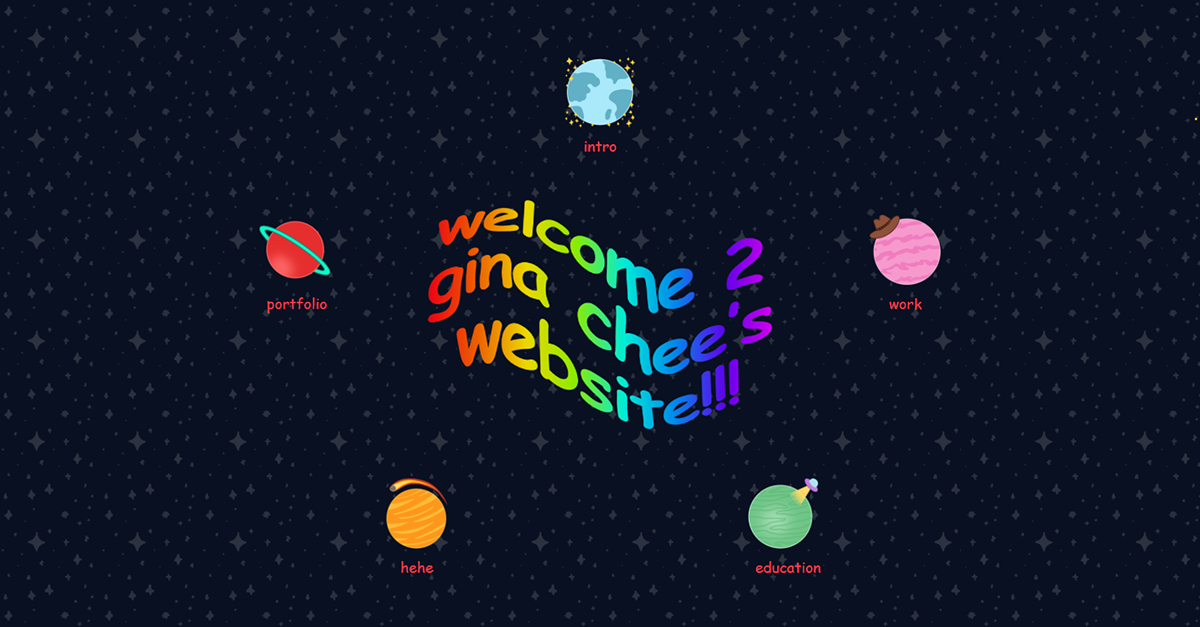
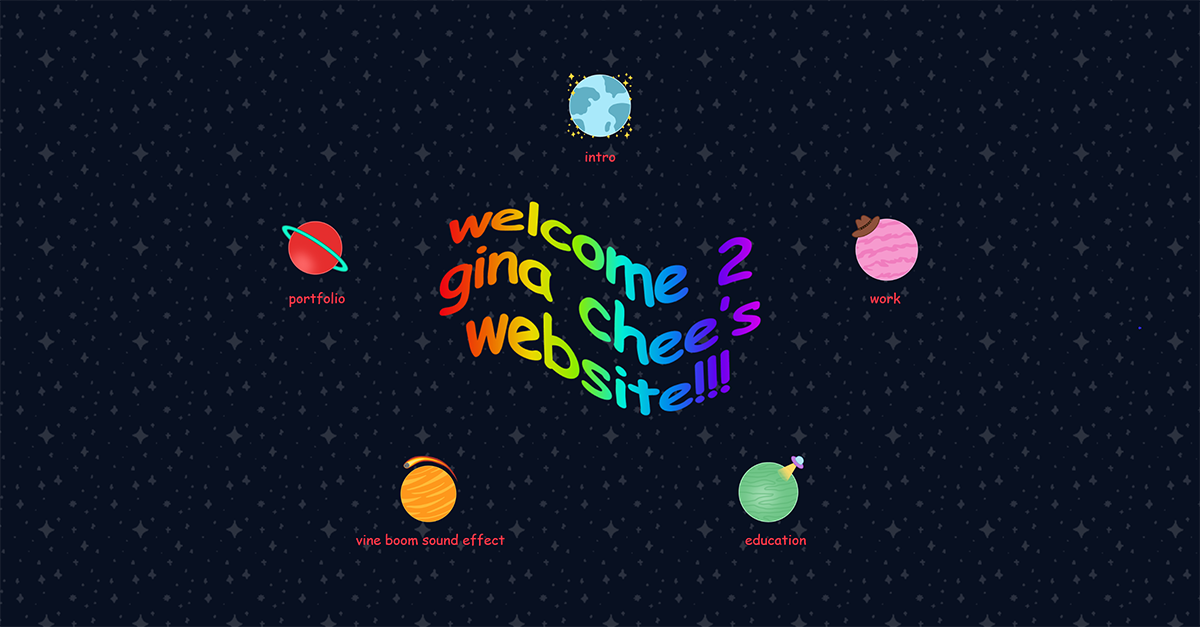
new planet

diff --git a/pages/css/spacejam.css b/pages/css/spacejam.css
@@ -1,2 +1,2 @@
-.container{max-width:800px;margin:0 auto;width:90%;min-height:99vh;overflow:auto;-webkit-overflow-scrolling:auto}@media only screen and (min-width: 601px){.container{width:85%}}@media only screen and (min-width: 993px){.container{width:70%}}.col .row{margin-left:-.75rem;margin-right:-.75rem}.row{margin:24px 0}.section{padding-top:1rem;padding-bottom:1rem}.section.no-pad{padding:0}.section.no-pad-bot{padding-bottom:0}.section.no-pad-top{padding-top:0}.row{margin-left:auto;margin-right:auto}.row:after{content:"";display:table;clear:both}.row .col{float:left;-webkit-box-sizing:border-box;box-sizing:border-box;padding:0 .75rem;min-height:1px}.row .col[class*=pull-],.row .col[class*=push-]{position:relative}.row .col.s1{width:8.3333333333%;margin-left:auto;left:auto;right:auto}.row .col.s2{width:16.6666666667%;margin-left:auto;left:auto;right:auto}.row .col.s3{width:25%;margin-left:auto;left:auto;right:auto}.row .col.s4{width:33.3333333333%;margin-left:auto;left:auto;right:auto}.row .col.s5{width:41.6666666667%;margin-left:auto;left:auto;right:auto}.row .col.s6{width:50%;margin-left:auto;left:auto;right:auto}.row .col.s7{width:58.3333333333%;margin-left:auto;left:auto;right:auto}.row .col.s8{width:66.6666666667%;margin-left:auto;left:auto;right:auto}.row .col.s9{width:75%;margin-left:auto;left:auto;right:auto}.row .col.s10{width:83.3333333333%;margin-left:auto;left:auto;right:auto}.row .col.s11{width:91.6666666667%;margin-left:auto;left:auto;right:auto}.row .col.s12{width:100%;margin-left:auto;left:auto;right:auto}.row .col.offset-s1{margin-left:8.3333333333%}.row .col.pull-s1{right:8.3333333333%}.row .col.push-s1{left:8.3333333333%}.row .col.offset-s2{margin-left:16.6666666667%}.row .col.pull-s2{right:16.6666666667%}.row .col.push-s2{left:16.6666666667%}.row .col.offset-s3{margin-left:25%}.row .col.pull-s3{right:25%}.row .col.push-s3{left:25%}.row .col.offset-s4{margin-left:33.3333333333%}.row .col.pull-s4{right:33.3333333333%}.row .col.push-s4{left:33.3333333333%}.row .col.offset-s5{margin-left:41.6666666667%}.row .col.pull-s5{right:41.6666666667%}.row .col.push-s5{left:41.6666666667%}.row .col.offset-s6{margin-left:50%}.row .col.pull-s6{right:50%}.row .col.push-s6{left:50%}.row .col.offset-s7{margin-left:58.3333333333%}.row .col.pull-s7{right:58.3333333333%}.row .col.push-s7{left:58.3333333333%}.row .col.offset-s8{margin-left:66.6666666667%}.row .col.pull-s8{right:66.6666666667%}.row .col.push-s8{left:66.6666666667%}.row .col.offset-s9{margin-left:75%}.row .col.pull-s9{right:75%}.row .col.push-s9{left:75%}.row .col.offset-s10{margin-left:83.3333333333%}.row .col.pull-s10{right:83.3333333333%}.row .col.push-s10{left:83.3333333333%}.row .col.offset-s11{margin-left:91.6666666667%}.row .col.pull-s11{right:91.6666666667%}.row .col.push-s11{left:91.6666666667%}.row .col.offset-s12{margin-left:100%}.row .col.pull-s12{right:100%}.row .col.push-s12{left:100%}@media only screen and (min-width: 601px){.row .col.m1{width:8.3333333333%;margin-left:auto;left:auto;right:auto}.row .col.m2{width:16.6666666667%;margin-left:auto;left:auto;right:auto}.row .col.m3{width:25%;margin-left:auto;left:auto;right:auto}.row .col.m4{width:33.3333333333%;margin-left:auto;left:auto;right:auto}.row .col.m5{width:41.6666666667%;margin-left:auto;left:auto;right:auto}.row .col.m6{width:50%;margin-left:auto;left:auto;right:auto}.row .col.m7{width:58.3333333333%;margin-left:auto;left:auto;right:auto}.row .col.m8{width:66.6666666667%;margin-left:auto;left:auto;right:auto}.row .col.m9{width:75%;margin-left:auto;left:auto;right:auto}.row .col.m10{width:83.3333333333%;margin-left:auto;left:auto;right:auto}.row .col.m11{width:91.6666666667%;margin-left:auto;left:auto;right:auto}.row .col.m12{width:100%;margin-left:auto;left:auto;right:auto}.row .col.offset-m1{margin-left:8.3333333333%}.row .col.pull-m1{right:8.3333333333%}.row .col.push-m1{left:8.3333333333%}.row .col.offset-m2{margin-left:16.6666666667%}.row .col.pull-m2{right:16.6666666667%}.row .col.push-m2{left:16.6666666667%}.row .col.offset-m3{margin-left:25%}.row .col.pull-m3{right:25%}.row .col.push-m3{left:25%}.row .col.offset-m4{margin-left:33.3333333333%}.row .col.pull-m4{right:33.3333333333%}.row .col.push-m4{left:33.3333333333%}.row .col.offset-m5{margin-left:41.6666666667%}.row .col.pull-m5{right:41.6666666667%}.row .col.push-m5{left:41.6666666667%}.row .col.offset-m6{margin-left:50%}.row .col.pull-m6{right:50%}.row .col.push-m6{left:50%}.row .col.offset-m7{margin-left:58.3333333333%}.row .col.pull-m7{right:58.3333333333%}.row .col.push-m7{left:58.3333333333%}.row .col.offset-m8{margin-left:66.6666666667%}.row .col.pull-m8{right:66.6666666667%}.row .col.push-m8{left:66.6666666667%}.row .col.offset-m9{margin-left:75%}.row .col.pull-m9{right:75%}.row .col.push-m9{left:75%}.row .col.offset-m10{margin-left:83.3333333333%}.row .col.pull-m10{right:83.3333333333%}.row .col.push-m10{left:83.3333333333%}.row .col.offset-m11{margin-left:91.6666666667%}.row .col.pull-m11{right:91.6666666667%}.row .col.push-m11{left:91.6666666667%}.row .col.offset-m12{margin-left:100%}.row .col.pull-m12{right:100%}.row .col.push-m12{left:100%}}@media only screen and (min-width: 993px){.row .col.l1{width:8.3333333333%;margin-left:auto;left:auto;right:auto}.row .col.l2{width:16.6666666667%;margin-left:auto;left:auto;right:auto}.row .col.l3{width:25%;margin-left:auto;left:auto;right:auto}.row .col.l4{width:33.3333333333%;margin-left:auto;left:auto;right:auto}.row .col.l5{width:41.6666666667%;margin-left:auto;left:auto;right:auto}.row .col.l6{width:50%;margin-left:auto;left:auto;right:auto}.row .col.l7{width:58.3333333333%;margin-left:auto;left:auto;right:auto}.row .col.l8{width:66.6666666667%;margin-left:auto;left:auto;right:auto}.row .col.l9{width:75%;margin-left:auto;left:auto;right:auto}.row .col.l10{width:83.3333333333%;margin-left:auto;left:auto;right:auto}.row .col.l11{width:91.6666666667%;margin-left:auto;left:auto;right:auto}.row .col.l12{width:100%;margin-left:auto;left:auto;right:auto}.row .col.offset-l1{margin-left:8.3333333333%}.row .col.pull-l1{right:8.3333333333%}.row .col.push-l1{left:8.3333333333%}.row .col.offset-l2{margin-left:16.6666666667%}.row .col.pull-l2{right:16.6666666667%}.row .col.push-l2{left:16.6666666667%}.row .col.offset-l3{margin-left:25%}.row .col.pull-l3{right:25%}.row .col.push-l3{left:25%}.row .col.offset-l4{margin-left:33.3333333333%}.row .col.pull-l4{right:33.3333333333%}.row .col.push-l4{left:33.3333333333%}.row .col.offset-l5{margin-left:41.6666666667%}.row .col.pull-l5{right:41.6666666667%}.row .col.push-l5{left:41.6666666667%}.row .col.offset-l6{margin-left:50%}.row .col.pull-l6{right:50%}.row .col.push-l6{left:50%}.row .col.offset-l7{margin-left:58.3333333333%}.row .col.pull-l7{right:58.3333333333%}.row .col.push-l7{left:58.3333333333%}.row .col.offset-l8{margin-left:66.6666666667%}.row .col.pull-l8{right:66.6666666667%}.row .col.push-l8{left:66.6666666667%}.row .col.offset-l9{margin-left:75%}.row .col.pull-l9{right:75%}.row .col.push-l9{left:75%}.row .col.offset-l10{margin-left:83.3333333333%}.row .col.pull-l10{right:83.3333333333%}.row .col.push-l10{left:83.3333333333%}.row .col.offset-l11{margin-left:91.6666666667%}.row .col.pull-l11{right:91.6666666667%}.row .col.push-l11{left:91.6666666667%}.row .col.offset-l12{margin-left:100%}.row .col.pull-l12{right:100%}.row .col.push-l12{left:100%}}@media only screen and (min-width: 1201px){.row .col.xl1{width:8.3333333333%;margin-left:auto;left:auto;right:auto}.row .col.xl2{width:16.6666666667%;margin-left:auto;left:auto;right:auto}.row .col.xl3{width:25%;margin-left:auto;left:auto;right:auto}.row .col.xl4{width:33.3333333333%;margin-left:auto;left:auto;right:auto}.row .col.xl5{width:41.6666666667%;margin-left:auto;left:auto;right:auto}.row .col.xl6{width:50%;margin-left:auto;left:auto;right:auto}.row .col.xl7{width:58.3333333333%;margin-left:auto;left:auto;right:auto}.row .col.xl8{width:66.6666666667%;margin-left:auto;left:auto;right:auto}.row .col.xl9{width:75%;margin-left:auto;left:auto;right:auto}.row .col.xl10{width:83.3333333333%;margin-left:auto;left:auto;right:auto}.row .col.xl11{width:91.6666666667%;margin-left:auto;left:auto;right:auto}.row .col.xl12{width:100%;margin-left:auto;left:auto;right:auto}.row .col.offset-xl1{margin-left:8.3333333333%}.row .col.pull-xl1{right:8.3333333333%}.row .col.push-xl1{left:8.3333333333%}.row .col.offset-xl2{margin-left:16.6666666667%}.row .col.pull-xl2{right:16.6666666667%}.row .col.push-xl2{left:16.6666666667%}.row .col.offset-xl3{margin-left:25%}.row .col.pull-xl3{right:25%}.row .col.push-xl3{left:25%}.row .col.offset-xl4{margin-left:33.3333333333%}.row .col.pull-xl4{right:33.3333333333%}.row .col.push-xl4{left:33.3333333333%}.row .col.offset-xl5{margin-left:41.6666666667%}.row .col.pull-xl5{right:41.6666666667%}.row .col.push-xl5{left:41.6666666667%}.row .col.offset-xl6{margin-left:50%}.row .col.pull-xl6{right:50%}.row .col.push-xl6{left:50%}.row .col.offset-xl7{margin-left:58.3333333333%}.row .col.pull-xl7{right:58.3333333333%}.row .col.push-xl7{left:58.3333333333%}.row .col.offset-xl8{margin-left:66.6666666667%}.row .col.pull-xl8{right:66.6666666667%}.row .col.push-xl8{left:66.6666666667%}.row .col.offset-xl9{margin-left:75%}.row .col.pull-xl9{right:75%}.row .col.push-xl9{left:75%}.row .col.offset-xl10{margin-left:83.3333333333%}.row .col.pull-xl10{right:83.3333333333%}.row .col.push-xl10{left:83.3333333333%}.row .col.offset-xl11{margin-left:91.6666666667%}.row .col.pull-xl11{right:91.6666666667%}.row .col.push-xl11{left:91.6666666667%}.row .col.offset-xl12{margin-left:100%}.row .col.pull-xl12{right:100%}.row .col.push-xl12{left:100%}}@font-face{font-family:'Comic Sans MS';src:url("../../space-jam/comic-sans-ms/COMIC.TTF")}@font-face{font-family:'Comic Sans MS';src:url("../../space-jam/comic-sans-ms/design.graffiti.comicsansmsgras.ttf");font-weight:bold}@font-face{font-family:'Comic Sans MS';src:url("../../space-jam/comic-sans-ms/comici.ttf");font-style:italic}*{cursor:url(https://cur.cursors-4u.net/food/foo-7/foo638.cur),auto !important;height:auto;-khtml-user-select:none;-o-user-select:none;-moz-user-select:none;-webkit-user-select:none;user-select:none}body{background:url("../../space-jam/media/stars-bg.png");font-family:'Comic Sans MS', 'Comic Sans', sans-serif;font-size:18px;color:white;line-height:1.6;margin:0}h1{font-size:32px;font-weight:bold}h2{font-size:24px;font-weight:bold}a{color:#FF3B4A;text-decoration:none}a:hover{text-decoration:underline}img{width:100%;height:auto}.planet{padding:16px;transition:transform .2s}.planet:hover{-ms-transform:scale(1.2);-webkit-transform:scale(1.2);transform:scale(1.2)}.planet h1,.planet h2,.planet h3,.planet h4,.planet h5{font-size:16px;font-weight:normal;text-align:center;margin:0 8px}.modal-overlay{bottom:0;left:0;opacity:0;position:fixed;right:0;top:0;display:none}.modal-overlay:target{display:block;opacity:1}.modal-overlay .modal{background:url("../../space-jam/media/stars-bg.png");height:100%;position:relative;margin:0 auto;padding:1.2em;overflow-y:auto;-webkit-overflow-scrolling:auto}.modal-overlay .close{color:#FF3B4A;font-size:32px;padding:12px 24px;position:absolute;right:0;text-align:center;text-decoration:none;top:0;z-index:1}.iframe-container{overflow:hidden;padding-top:56.25%;position:relative}.iframe-container iframe{position:absolute;top:0;left:0;border:0;width:100%;height:100%}.footer{height:100%;margin:16px 0;text-align:center;color:white;font-size:14px}@media only screen and (max-width: 992px){.planet h1,h2,h3,h4,h5{font-size:18px}}@media only screen and (min-width: 601px){#mobile-jam{display:none}}@media only screen and (max-width: 600px){.planet{padding:24px}#desktop-jam{display:none}h1{text-align:center}}
+.container{max-width:800px;margin:0 auto;width:90%;min-height:99vh;overflow:auto;-webkit-overflow-scrolling:auto}@media only screen and (min-width: 601px){.container{width:85%}}@media only screen and (min-width: 993px){.container{width:70%}}.col .row{margin-left:-.75rem;margin-right:-.75rem}.row{margin:24px 0}.section{padding-top:1rem;padding-bottom:1rem}.section.no-pad{padding:0}.section.no-pad-bot{padding-bottom:0}.section.no-pad-top{padding-top:0}.row{margin-left:auto;margin-right:auto}.row:after{content:"";display:table;clear:both}.row .col{float:left;-webkit-box-sizing:border-box;box-sizing:border-box;padding:0 .75rem;min-height:1px}.row .col[class*=pull-],.row .col[class*=push-]{position:relative}.row .col.s1{width:8.3333333333%;margin-left:auto;left:auto;right:auto}.row .col.s2{width:16.6666666667%;margin-left:auto;left:auto;right:auto}.row .col.s3{width:25%;margin-left:auto;left:auto;right:auto}.row .col.s4{width:33.3333333333%;margin-left:auto;left:auto;right:auto}.row .col.s5{width:41.6666666667%;margin-left:auto;left:auto;right:auto}.row .col.s6{width:50%;margin-left:auto;left:auto;right:auto}.row .col.s7{width:58.3333333333%;margin-left:auto;left:auto;right:auto}.row .col.s8{width:66.6666666667%;margin-left:auto;left:auto;right:auto}.row .col.s9{width:75%;margin-left:auto;left:auto;right:auto}.row .col.s10{width:83.3333333333%;margin-left:auto;left:auto;right:auto}.row .col.s11{width:91.6666666667%;margin-left:auto;left:auto;right:auto}.row .col.s12{width:100%;margin-left:auto;left:auto;right:auto}.row .col.offset-s1{margin-left:8.3333333333%}.row .col.pull-s1{right:8.3333333333%}.row .col.push-s1{left:8.3333333333%}.row .col.offset-s2{margin-left:16.6666666667%}.row .col.pull-s2{right:16.6666666667%}.row .col.push-s2{left:16.6666666667%}.row .col.offset-s3{margin-left:25%}.row .col.pull-s3{right:25%}.row .col.push-s3{left:25%}.row .col.offset-s4{margin-left:33.3333333333%}.row .col.pull-s4{right:33.3333333333%}.row .col.push-s4{left:33.3333333333%}.row .col.offset-s5{margin-left:41.6666666667%}.row .col.pull-s5{right:41.6666666667%}.row .col.push-s5{left:41.6666666667%}.row .col.offset-s6{margin-left:50%}.row .col.pull-s6{right:50%}.row .col.push-s6{left:50%}.row .col.offset-s7{margin-left:58.3333333333%}.row .col.pull-s7{right:58.3333333333%}.row .col.push-s7{left:58.3333333333%}.row .col.offset-s8{margin-left:66.6666666667%}.row .col.pull-s8{right:66.6666666667%}.row .col.push-s8{left:66.6666666667%}.row .col.offset-s9{margin-left:75%}.row .col.pull-s9{right:75%}.row .col.push-s9{left:75%}.row .col.offset-s10{margin-left:83.3333333333%}.row .col.pull-s10{right:83.3333333333%}.row .col.push-s10{left:83.3333333333%}.row .col.offset-s11{margin-left:91.6666666667%}.row .col.pull-s11{right:91.6666666667%}.row .col.push-s11{left:91.6666666667%}.row .col.offset-s12{margin-left:100%}.row .col.pull-s12{right:100%}.row .col.push-s12{left:100%}@media only screen and (min-width: 601px){.row .col.m1{width:8.3333333333%;margin-left:auto;left:auto;right:auto}.row .col.m2{width:16.6666666667%;margin-left:auto;left:auto;right:auto}.row .col.m3{width:25%;margin-left:auto;left:auto;right:auto}.row .col.m4{width:33.3333333333%;margin-left:auto;left:auto;right:auto}.row .col.m5{width:41.6666666667%;margin-left:auto;left:auto;right:auto}.row .col.m6{width:50%;margin-left:auto;left:auto;right:auto}.row .col.m7{width:58.3333333333%;margin-left:auto;left:auto;right:auto}.row .col.m8{width:66.6666666667%;margin-left:auto;left:auto;right:auto}.row .col.m9{width:75%;margin-left:auto;left:auto;right:auto}.row .col.m10{width:83.3333333333%;margin-left:auto;left:auto;right:auto}.row .col.m11{width:91.6666666667%;margin-left:auto;left:auto;right:auto}.row .col.m12{width:100%;margin-left:auto;left:auto;right:auto}.row .col.offset-m1{margin-left:8.3333333333%}.row .col.pull-m1{right:8.3333333333%}.row .col.push-m1{left:8.3333333333%}.row .col.offset-m2{margin-left:16.6666666667%}.row .col.pull-m2{right:16.6666666667%}.row .col.push-m2{left:16.6666666667%}.row .col.offset-m3{margin-left:25%}.row .col.pull-m3{right:25%}.row .col.push-m3{left:25%}.row .col.offset-m4{margin-left:33.3333333333%}.row .col.pull-m4{right:33.3333333333%}.row .col.push-m4{left:33.3333333333%}.row .col.offset-m5{margin-left:41.6666666667%}.row .col.pull-m5{right:41.6666666667%}.row .col.push-m5{left:41.6666666667%}.row .col.offset-m6{margin-left:50%}.row .col.pull-m6{right:50%}.row .col.push-m6{left:50%}.row .col.offset-m7{margin-left:58.3333333333%}.row .col.pull-m7{right:58.3333333333%}.row .col.push-m7{left:58.3333333333%}.row .col.offset-m8{margin-left:66.6666666667%}.row .col.pull-m8{right:66.6666666667%}.row .col.push-m8{left:66.6666666667%}.row .col.offset-m9{margin-left:75%}.row .col.pull-m9{right:75%}.row .col.push-m9{left:75%}.row .col.offset-m10{margin-left:83.3333333333%}.row .col.pull-m10{right:83.3333333333%}.row .col.push-m10{left:83.3333333333%}.row .col.offset-m11{margin-left:91.6666666667%}.row .col.pull-m11{right:91.6666666667%}.row .col.push-m11{left:91.6666666667%}.row .col.offset-m12{margin-left:100%}.row .col.pull-m12{right:100%}.row .col.push-m12{left:100%}}@media only screen and (min-width: 993px){.row .col.l1{width:8.3333333333%;margin-left:auto;left:auto;right:auto}.row .col.l2{width:16.6666666667%;margin-left:auto;left:auto;right:auto}.row .col.l3{width:25%;margin-left:auto;left:auto;right:auto}.row .col.l4{width:33.3333333333%;margin-left:auto;left:auto;right:auto}.row .col.l5{width:41.6666666667%;margin-left:auto;left:auto;right:auto}.row .col.l6{width:50%;margin-left:auto;left:auto;right:auto}.row .col.l7{width:58.3333333333%;margin-left:auto;left:auto;right:auto}.row .col.l8{width:66.6666666667%;margin-left:auto;left:auto;right:auto}.row .col.l9{width:75%;margin-left:auto;left:auto;right:auto}.row .col.l10{width:83.3333333333%;margin-left:auto;left:auto;right:auto}.row .col.l11{width:91.6666666667%;margin-left:auto;left:auto;right:auto}.row .col.l12{width:100%;margin-left:auto;left:auto;right:auto}.row .col.offset-l1{margin-left:8.3333333333%}.row .col.pull-l1{right:8.3333333333%}.row .col.push-l1{left:8.3333333333%}.row .col.offset-l2{margin-left:16.6666666667%}.row .col.pull-l2{right:16.6666666667%}.row .col.push-l2{left:16.6666666667%}.row .col.offset-l3{margin-left:25%}.row .col.pull-l3{right:25%}.row .col.push-l3{left:25%}.row .col.offset-l4{margin-left:33.3333333333%}.row .col.pull-l4{right:33.3333333333%}.row .col.push-l4{left:33.3333333333%}.row .col.offset-l5{margin-left:41.6666666667%}.row .col.pull-l5{right:41.6666666667%}.row .col.push-l5{left:41.6666666667%}.row .col.offset-l6{margin-left:50%}.row .col.pull-l6{right:50%}.row .col.push-l6{left:50%}.row .col.offset-l7{margin-left:58.3333333333%}.row .col.pull-l7{right:58.3333333333%}.row .col.push-l7{left:58.3333333333%}.row .col.offset-l8{margin-left:66.6666666667%}.row .col.pull-l8{right:66.6666666667%}.row .col.push-l8{left:66.6666666667%}.row .col.offset-l9{margin-left:75%}.row .col.pull-l9{right:75%}.row .col.push-l9{left:75%}.row .col.offset-l10{margin-left:83.3333333333%}.row .col.pull-l10{right:83.3333333333%}.row .col.push-l10{left:83.3333333333%}.row .col.offset-l11{margin-left:91.6666666667%}.row .col.pull-l11{right:91.6666666667%}.row .col.push-l11{left:91.6666666667%}.row .col.offset-l12{margin-left:100%}.row .col.pull-l12{right:100%}.row .col.push-l12{left:100%}}@media only screen and (min-width: 1201px){.row .col.xl1{width:8.3333333333%;margin-left:auto;left:auto;right:auto}.row .col.xl2{width:16.6666666667%;margin-left:auto;left:auto;right:auto}.row .col.xl3{width:25%;margin-left:auto;left:auto;right:auto}.row .col.xl4{width:33.3333333333%;margin-left:auto;left:auto;right:auto}.row .col.xl5{width:41.6666666667%;margin-left:auto;left:auto;right:auto}.row .col.xl6{width:50%;margin-left:auto;left:auto;right:auto}.row .col.xl7{width:58.3333333333%;margin-left:auto;left:auto;right:auto}.row .col.xl8{width:66.6666666667%;margin-left:auto;left:auto;right:auto}.row .col.xl9{width:75%;margin-left:auto;left:auto;right:auto}.row .col.xl10{width:83.3333333333%;margin-left:auto;left:auto;right:auto}.row .col.xl11{width:91.6666666667%;margin-left:auto;left:auto;right:auto}.row .col.xl12{width:100%;margin-left:auto;left:auto;right:auto}.row .col.offset-xl1{margin-left:8.3333333333%}.row .col.pull-xl1{right:8.3333333333%}.row .col.push-xl1{left:8.3333333333%}.row .col.offset-xl2{margin-left:16.6666666667%}.row .col.pull-xl2{right:16.6666666667%}.row .col.push-xl2{left:16.6666666667%}.row .col.offset-xl3{margin-left:25%}.row .col.pull-xl3{right:25%}.row .col.push-xl3{left:25%}.row .col.offset-xl4{margin-left:33.3333333333%}.row .col.pull-xl4{right:33.3333333333%}.row .col.push-xl4{left:33.3333333333%}.row .col.offset-xl5{margin-left:41.6666666667%}.row .col.pull-xl5{right:41.6666666667%}.row .col.push-xl5{left:41.6666666667%}.row .col.offset-xl6{margin-left:50%}.row .col.pull-xl6{right:50%}.row .col.push-xl6{left:50%}.row .col.offset-xl7{margin-left:58.3333333333%}.row .col.pull-xl7{right:58.3333333333%}.row .col.push-xl7{left:58.3333333333%}.row .col.offset-xl8{margin-left:66.6666666667%}.row .col.pull-xl8{right:66.6666666667%}.row .col.push-xl8{left:66.6666666667%}.row .col.offset-xl9{margin-left:75%}.row .col.pull-xl9{right:75%}.row .col.push-xl9{left:75%}.row .col.offset-xl10{margin-left:83.3333333333%}.row .col.pull-xl10{right:83.3333333333%}.row .col.push-xl10{left:83.3333333333%}.row .col.offset-xl11{margin-left:91.6666666667%}.row .col.pull-xl11{right:91.6666666667%}.row .col.push-xl11{left:91.6666666667%}.row .col.offset-xl12{margin-left:100%}.row .col.pull-xl12{right:100%}.row .col.push-xl12{left:100%}}@font-face{font-family:'Comic Sans MS';src:url("../../space-jam/comic-sans-ms/COMIC.TTF")}@font-face{font-family:'Comic Sans MS';src:url("../../space-jam/comic-sans-ms/design.graffiti.comicsansmsgras.ttf");font-weight:bold}@font-face{font-family:'Comic Sans MS';src:url("../../space-jam/comic-sans-ms/comici.ttf");font-style:italic}*{cursor:url(https://cur.cursors-4u.net/people/peo-6/peo784.cur),auto !important;height:auto;-khtml-user-select:none;-o-user-select:none;-moz-user-select:none;-webkit-user-select:none;user-select:none}body{background:url("../../space-jam/media/stars-bg.png");font-family:'Comic Sans MS', 'Comic Sans', sans-serif;font-size:18px;color:white;line-height:1.6;margin:0}h1{font-size:32px;font-weight:bold}h2{font-size:24px;font-weight:bold}a{color:#FF3B4A;text-decoration:none}a:hover{text-decoration:underline}img{width:100%;height:auto}.planet{padding:16px;transition:transform .2s}.planet:hover{-ms-transform:scale(1.2);-webkit-transform:scale(1.2);transform:scale(1.2)}.planet h1,.planet h2,.planet h3,.planet h4,.planet h5{font-size:16px;font-weight:normal;text-align:center;margin:0 8px}.modal-overlay{bottom:0;left:0;opacity:0;position:fixed;right:0;top:0;display:none}.modal-overlay:target{display:block;opacity:1}.modal-overlay .modal{background:url("../../space-jam/media/stars-bg.png");height:100%;position:relative;margin:0 auto;padding:1.2em;overflow-y:auto;-webkit-overflow-scrolling:auto}.modal-overlay .close{color:#FF3B4A;font-size:32px;padding:12px 24px;position:absolute;right:0;text-align:center;text-decoration:none;top:0;z-index:1}.iframe-container{overflow:hidden;padding-top:56.25%;position:relative}.iframe-container iframe{position:absolute;top:0;left:0;border:0;width:100%;height:100%}.center{margin:0;position:absolute;top:50%;left:50%;-ms-transform:translate(-50%, -50%);transform:translate(-50%, -50%)}.button{padding:20px 32px;font-size:24px;font-family:'Comic Sans MS', 'Comic Sans', sans-serif;text-align:center;cursor:pointer;outline:none;color:#fff;background-color:#FF3B4A;border:none;border-radius:16px;box-shadow:0 9px #771C23}.button:hover{background-color:#9F252E}.button:active{background-color:#9F252E;box-shadow:0 5px #771C23;transform:translateY(4px)}.footer{height:100%;margin:16px 0;text-align:center;color:white;font-size:14px}@media only screen and (max-width: 992px){.planet h1,h2,h3,h4,h5{font-size:18px}}@media only screen and (min-width: 1201px){h4{white-space:nowrap;text-overflow:clip;position:relative;left:-55px}}@media only screen and (min-width: 601px){#mobile-jam{display:none}}@media only screen and (max-width: 600px){.planet{padding:24px}#desktop-jam{display:none}h1{text-align:center}}
 /*# sourceMappingURL=spacejam.css.map */

diff --git a/index.html b/index.html
@@ -39,9 +39,9 @@
             </a></div></div>
         </div>
         <div class="row">
-            <div class="col xl2 offset-xl2 l3 offset-l2 m3 offset-m2"><div class="planet"><a href="#hehe">
-                <img src="space-jam/media/hehe-min.png" alt="Orange planet with comet on top">
-                <h4>hehe</h4>
+            <div class="col xl2 offset-xl2 l3 offset-l2 m3 offset-m2"><div class="planet"><a href="#vine-boom-sound-effect">
+                <img src="space-jam/media/vine-boom-sound-effect-min.png" alt="Orange planet with comet on top">
+                <h4>vine boom sound effect</h4>
             </a></div></div>
             <div class="col xl2 offset-xl4 l3 offset-l2 m3 offset-m2"><div class="planet"><a href="#education">
                 <img src="space-jam/media/education-min.png" alt="Green planet with UFO">
@@ -53,25 +53,25 @@
         <div class="col s10 offset-s1">
             <img src="space-jam/media/logo-min.png" alt="Rainbow Comic Sans word art that says Welcome to Gina Chee's website!">
         </div>
-        <div class="col s6 offset-s3"><div class="planet"><a href="#intro">
-            <img src="space-jam/media/intro-min.png" alt="Blue planet surrounded with yellow sparkles">
-            <h1>intro</h1>
+        <div class="col s12"><div class="planet"><a href="#intro">
+            <div class="col s6 offset-s3"><img src="space-jam/media/intro-min.png" alt="Blue planet surrounded with yellow sparkles"></div>
+            <div class="col s12"><h1>intro</h1></div>
         </a></div></div>
-        <div class="col s6 offset-s3"><div class="planet"><a href="#work">
-            <img src="space-jam/media/work-min.png" alt="Pink planet wearing a cowboy hat">
-            <h2>work</h2>
+        <div class="col s12"><div class="planet"><a href="#work">
+            <div class="col s6 offset-s3"><img src="space-jam/media/work-min.png" alt="Pink planet wearing a cowboy hat"></div>
+            <div class="col s12"><h2>work</h2></div>
         </a></div></div>
-        <div class="col s6 offset-s3"><div class="planet"><a href="#education">
-            <img src="space-jam/media/education-min.png" alt="Green planet with UFO">
-            <h3>education</h3>
+        <div class="col s12"><div class="planet"><a href="#education">
+            <div class="col s6 offset-s3"><img src="space-jam/media/education-min.png" alt="Green planet with UFO"></div>
+            <div class="col s12"><h3>education</h3></div>
         </a></div></div>
-        <div class="col s6 offset-s3"><div class="planet"><a href="#hehe">
-            <img src="space-jam/media/hehe-min.png" alt="Orange planet with comet on top">
-            <h4>hehe</h4>
+        <div class="col s12"><div class="planet"><a href="#vine-boom-sound-effect">
+            <div class="col s6 offset-s3"><img src="space-jam/media/vine-boom-sound-effect-min.png" alt="Orange planet with comet on top"></div>
+            <div class="col s12"><h4>vine boom sound effect</h4></div>
         </a></div></div>
-        <div class="col s6 offset-s3"><div class="planet"><a href="#portfolio">
-            <img src="space-jam/media/portfolio-min.png" alt="Red planet with teal ring">
-            <h5>portfolio</h5>
+        <div class="col s12"><div class="planet"><a href="#portfolio">
+            <div class="col s6 offset-s3"><img src="space-jam/media/portfolio-min.png" alt="Red planet with teal ring"></div>
+            <div class="col s12"><h5>portfolio</h5></div>
         </a></div></div>
         <div class="row">
             <div class="col s10 offset-s1">
@@ -96,7 +96,7 @@
                     <ul><li>animated movies</li><li><a href="https://www.instagram.com/depthsofwikipedia/" target="_blank">Depths of Wikipedia</a></li><li>dim sum</li><li>photo booths</li><li>weird earrings</li><li>astrology (kinda) (Aries sun, Leo moon, Cancer rising)</li></ul>
                 </div>
             </div>
-            <div class="row">
+            <div class="row" style="padding-bottom: 20px">
                 <div class="col m10 offset-m1 s12">questions? comments? feel free to email me at <a href="mailto:gmail@ginachee.com" target="_blank">gmail@ginachee.com</a>, or connect with me on <a href="https://linkedin.com/in/ginachee" target="_blank">LinkedIn</a>.</div>
             </div>
         </div>
@@ -128,37 +128,24 @@
             <div class="row">
                 <div class="col m10 offset-m1 s12"><p>i got my design education at New York University, obtaining a bachelor's degree in <a href="http://idm.engineering.nyu.edu/" target="_blank">Integrated Digital Media</a> and a minor in studio art.</p></div>
                 <div class="col m10 offset-m1 s12"><p>my program, which has a multidisciplinary art, technology, and engineering curriculum, allowed me to explore different mediums of design and tech.</p></div>
-                <div class="col l6 offset-l3 m8 offset-m2 s12"><img src="space-jam/media/what-if-we-kissed.jpg" alt="Meme of two people in VR headsets kissing with text 'what if we kissed at the intersection of art and technology?'"></div>
+                <div class="col l6 offset-l3 m8 offset-m2 s12" style="padding-bottom: 20px"><img src="space-jam/media/what-if-we-kissed.jpg" alt="Meme of two people in VR headsets kissing with text 'what if we kissed at the intersection of art and technology?'"></div>
             </div>
         </div>
     </div>
 </div>
-<div id="hehe" class="modal-overlay">
+<div id="vine-boom-sound-effect" class="modal-overlay">
     <div class="modal">
         <a href="#close" class="close">&times;</a>
         <div class="container">
             <div class="row">
-                <div class="col m3 offset-m1 s6 offset-s3"><img src="space-jam/media/hehe-min.png" alt="Blue planet surrounded with yellow sparkles"></div>
-                <div class="col m5 offset-m2 s12"><h1>planet hehe</h1></div>
+                <div class="col m3 offset-m1 s6 offset-s3"><img src="space-jam/media/vine-boom-sound-effect-min.png" alt="Blue planet surrounded with yellow sparkles"></div>
+                <div class="col m5 offset-m2 s12"><h1>planet vine boom sound effect</h1></div>
             </div>
             <div class="row">
-                <div class="col m10 offset-m1 s12">
-                    <h2>niche interests (updated september 19):</h2>
+                <div class="center">
+                    <button class="button" onclick="playSound()">click me</button>
+                    <audio id="audio" src="space-jam/media/vine-boom.mp3"></audio>
                 </div>
-            </div>
-            <div class="row">
-                <div class="col m10 offset-m1 s12">
-                    <p><a href="https://shop.yukikomorita.com/collections/pampshade/products/pampshade-batard" target="_blank">bread lamp</a></p>
-                    <a href="https://shop.yukikomorita.com/collections/pampshade/products/pampshade-batard" target="_blank"><img src="space-jam/media/hehe/bread-lamp.jpg" alt="lamp that looks like a baguette"></a>
-                </div>
-            </div>
-            <div class="row">
-                <div class="col m10 offset-m1 s12">
-                    <p>these cakes i made</p>
-                </div>
-                <div class="col m4 s12"><img src="space-jam/media/hehe/cake1.JPG" alt="Cake that says 'here is your fucking cake you little skank'"></div>
-                <div class="col m4 s12"><img src="space-jam/media/hehe/cake2.JPG" alt="Cake that says 'you're a virgin who can't drive' but the a virgin who can't drive is crossed out"></div>
-                <div class="col m4 s12"><img src="space-jam/media/hehe/cake3.JPG" alt="Cake that says coochie"></div>
             </div>
         </div>
     </div>

diff --git a/pages/css/spacejam.scss b/pages/css/spacejam.scss
@@ -17,7 +17,7 @@ $background-color: #0A1020;
   font-style: italic;
 }
 * {
-  cursor: url(https://cur.cursors-4u.net/food/foo-7/foo638.cur), auto !important;  height: auto;
+  cursor: url(https://cur.cursors-4u.net/people/peo-6/peo784.cur), auto !important;  height: auto;
   -khtml-user-select: none;
   -o-user-select: none;
   -moz-user-select: none;
@@ -112,6 +112,35 @@ img {
   width: 100%;
   height: 100%;
 }
+.center {
+  margin: 0;
+  position: absolute;
+  top: 50%;
+  left: 50%;
+  -ms-transform: translate(-50%, -50%);
+  transform: translate(-50%, -50%);
+}
+.button {
+  padding: 20px 32px;
+  font-size: 24px;
+  font-family: 'Comic Sans MS', 'Comic Sans', sans-serif;
+  text-align: center;
+  cursor: pointer;
+  outline: none;
+  color: #fff;
+  background-color: $accent-color;
+  border: none;
+  border-radius: 16px;
+  box-shadow: 0 9px #771C23;
+  &:hover {
+    background-color: $hover-color;
+  }
+  &:active {
+    background-color: $hover-color;
+    box-shadow: 0 5px #771C23;
+    transform: translateY(4px);
+  }
+}
 .footer {
   height: 100%;
   margin: 16px 0;
@@ -121,7 +150,15 @@ img {
 }
 @media only screen and (max-width: 992px) {
   .planet h1, h2, h3, h4, h5 {
-    font-size: 18px;
+    font-size: 18px
+  }
+}
+@media only screen and (min-width: 1201px) {
+  h4 {
+    white-space: nowrap;
+    text-overflow: clip;
+    position: relative;
+    left:-55px;
   }
 }
 @media only screen and (min-width: 601px) {

diff --git a/pages/js/spacejam.js b/pages/js/spacejam.js
@@ -182,3 +182,10 @@ function newColour() {
     c.sort(function(){return (0.5 - Math.random());});
     return ("rgb("+c[0]+", "+c[1]+", "+c[2]+")");
 }
+
+var audio = document.getElementById("audio");
+
+function playSound() {
+    audio.currentTime = 0;
+    audio.play();
+}
